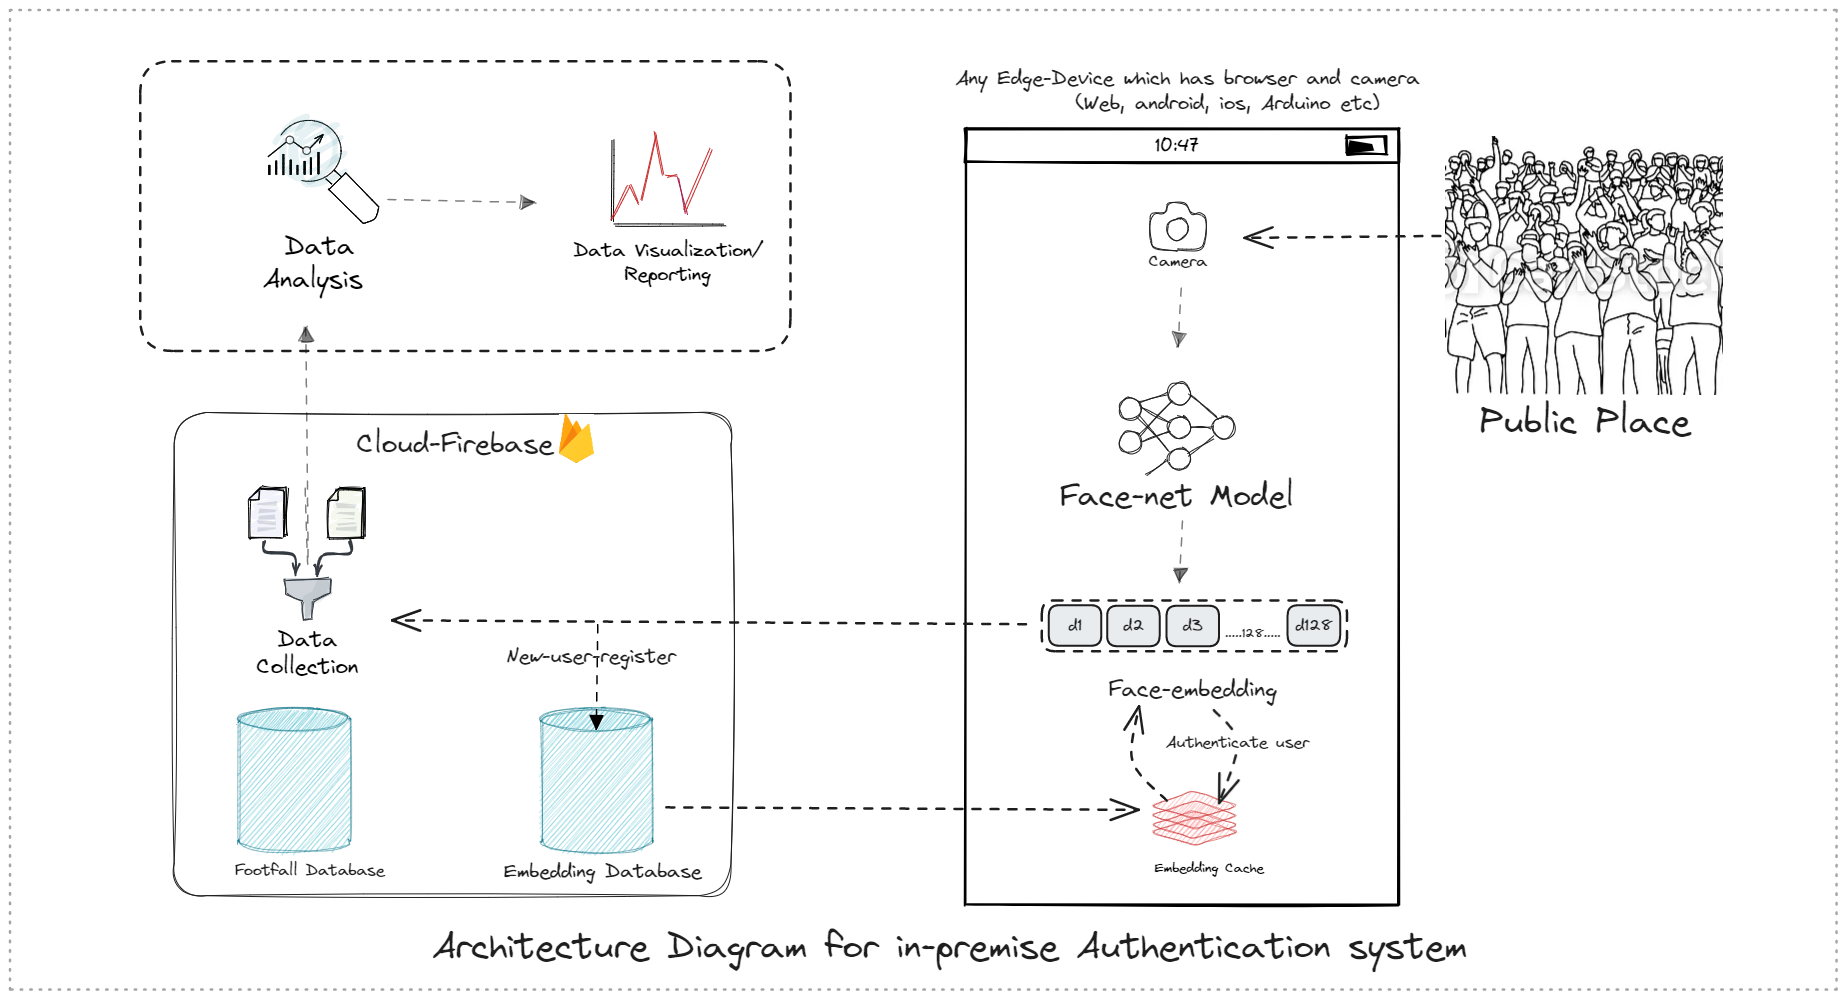
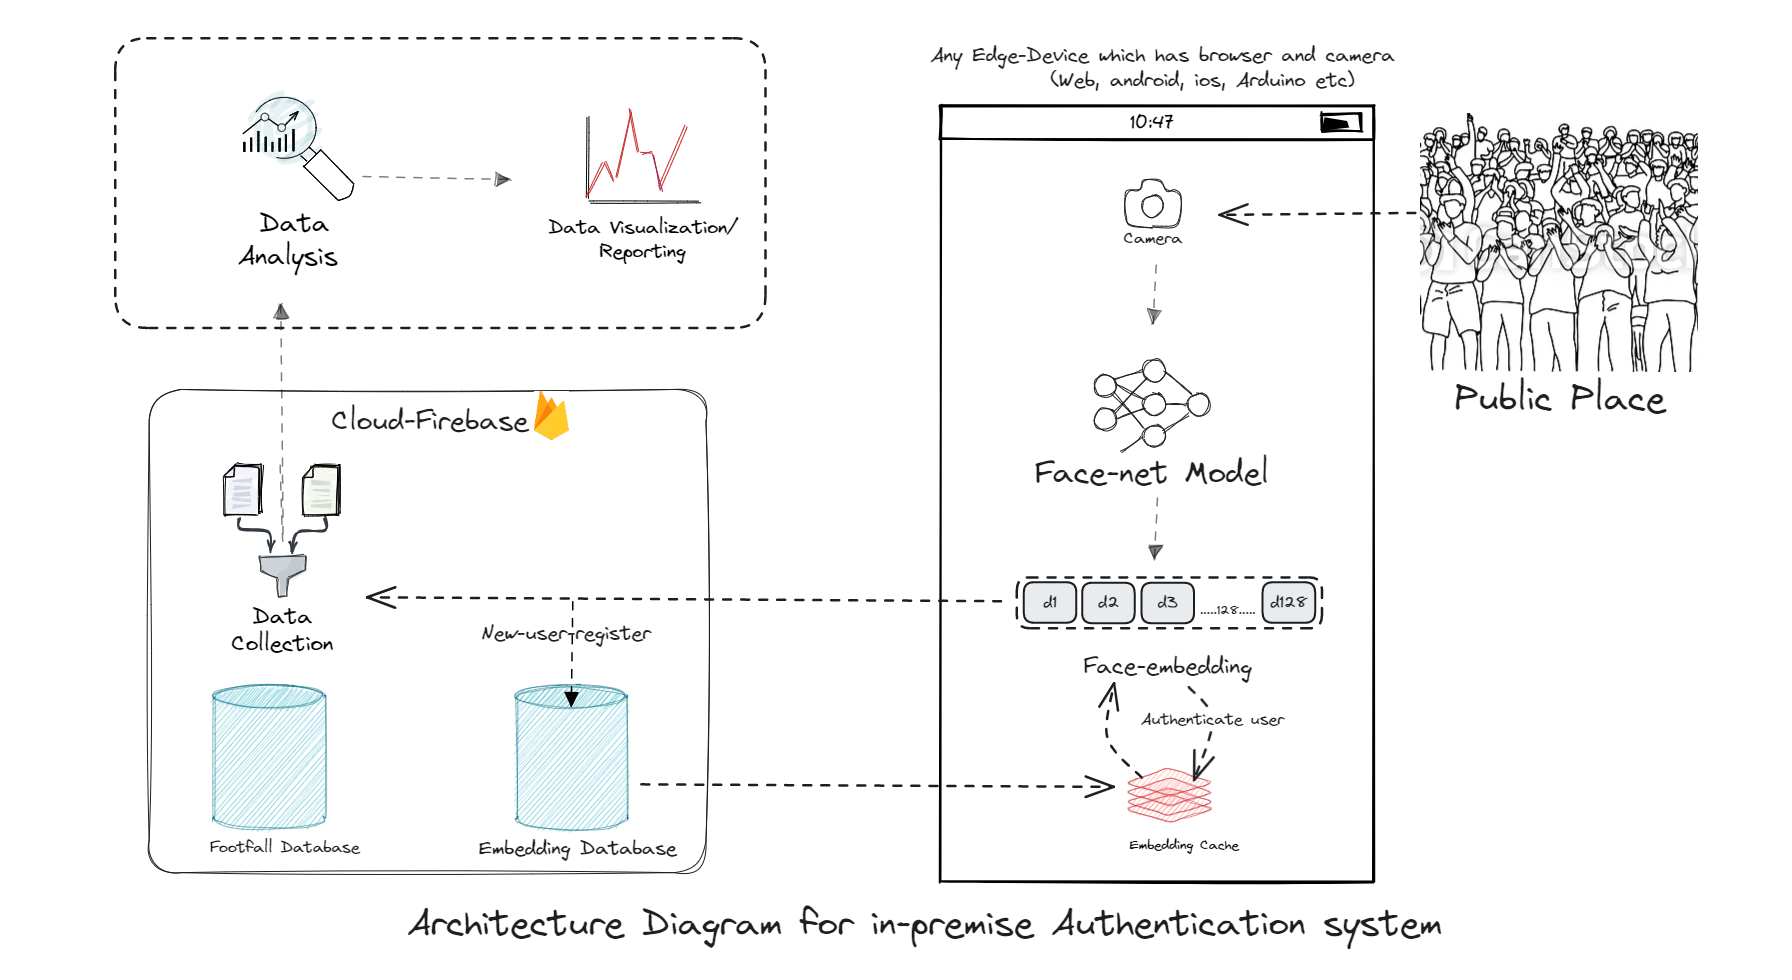
adding architecture

diff --git a/README.md b/README.md
@@ -1,29 +1,41 @@
 # Disclaimer
-I do not claim any of my public repository work to be completely mine though I try to give full credit to repository I am picking from.
-It is generally a mix of  implementation from multiple repository, learning and building on and above them to my use-cases.
-In this project I have build up a production grade surveillance system, the mix of tech-stack used in this project is what I think is the best way of buidling a production grade face-recognition based system.
-This has been a part of system tested on site in gyms for authentication but there are many improvement in the way things are done could be improved.
+I do not claim most of my public repository work to be completely mine though I try to give full credit to repository I am building upon.
 
 
-# FootFallTrackerboT_POC
+# FootFallTracker_and_Authentication
+
+## **Introduction**
+This project is about building a video based authentication system that does all the ML computation on user machine and require little to no computation on server side. Moreover, the application should be able to run in any user machine avaialible i.e. (ios, android, windows etc). How do we solve this problem? we utilize a mix of technology that enables this architecture.
+1. We convert and optimize our two  model **MTCNN + Facenet using tensorflow.js** to be able to load in any web browser.
+2. We build a progressive web app (PWA) in Angular + ionic + cordova that can be build in apk, web, ios bundle directly for building native app 
+3. We build an embedding database in Firebase that saved registered user and authenticate register person.
+4. A proprietary algorithm that tracks user in-house time to track resource usage.
+
+## **Application Architecture**
+
+![](docs/FootFall_tracking_architect.png)
+Architecture diagram of the whole application with three main parts.
+1. User side application, basically a PWA which is able to run tensorflow.js optimized model in any device.
+   1. Camera input is streamed to the model which then detects the person in it and output the face-embedding vectors.
+   2. This embedding is checked for similarity from authorized user and user is authenticated or non-authorized.
+   3. User-activity info is send to the database.
+2. Cloud database provide info of authorized user and save activity.
+3. Data analysis is done on the user-activity data to present meaningful report to user.
+
 Demo 
 
 ScreenShot of applications in work. 
 
-## features 
-1. Load anyWhere
-2. No extra cloud cost
-3. 
+## **features** 
+1. Multi-platform support i.e. Web, native-Android,ios etc
+2. ML Computation on user hardware with tensorflow.js 
+3. Real-time dashboard and Low-internet bandwidth requirement for video based authentication
 
 
-## About
 
-## **Application Architecture**
-content goes here
-tensorflow.js used for inferencing -- Angular UI -- Firebase backend -- tensorflow.js
-Load it in your mobile
-![](docs/FootFall_tracking_architect.png)
 
+
+# About
 ## **MTCNN+FaceNet model used** 
 We will use a combination of two model i.e. MTCNN + Face-net 
 
